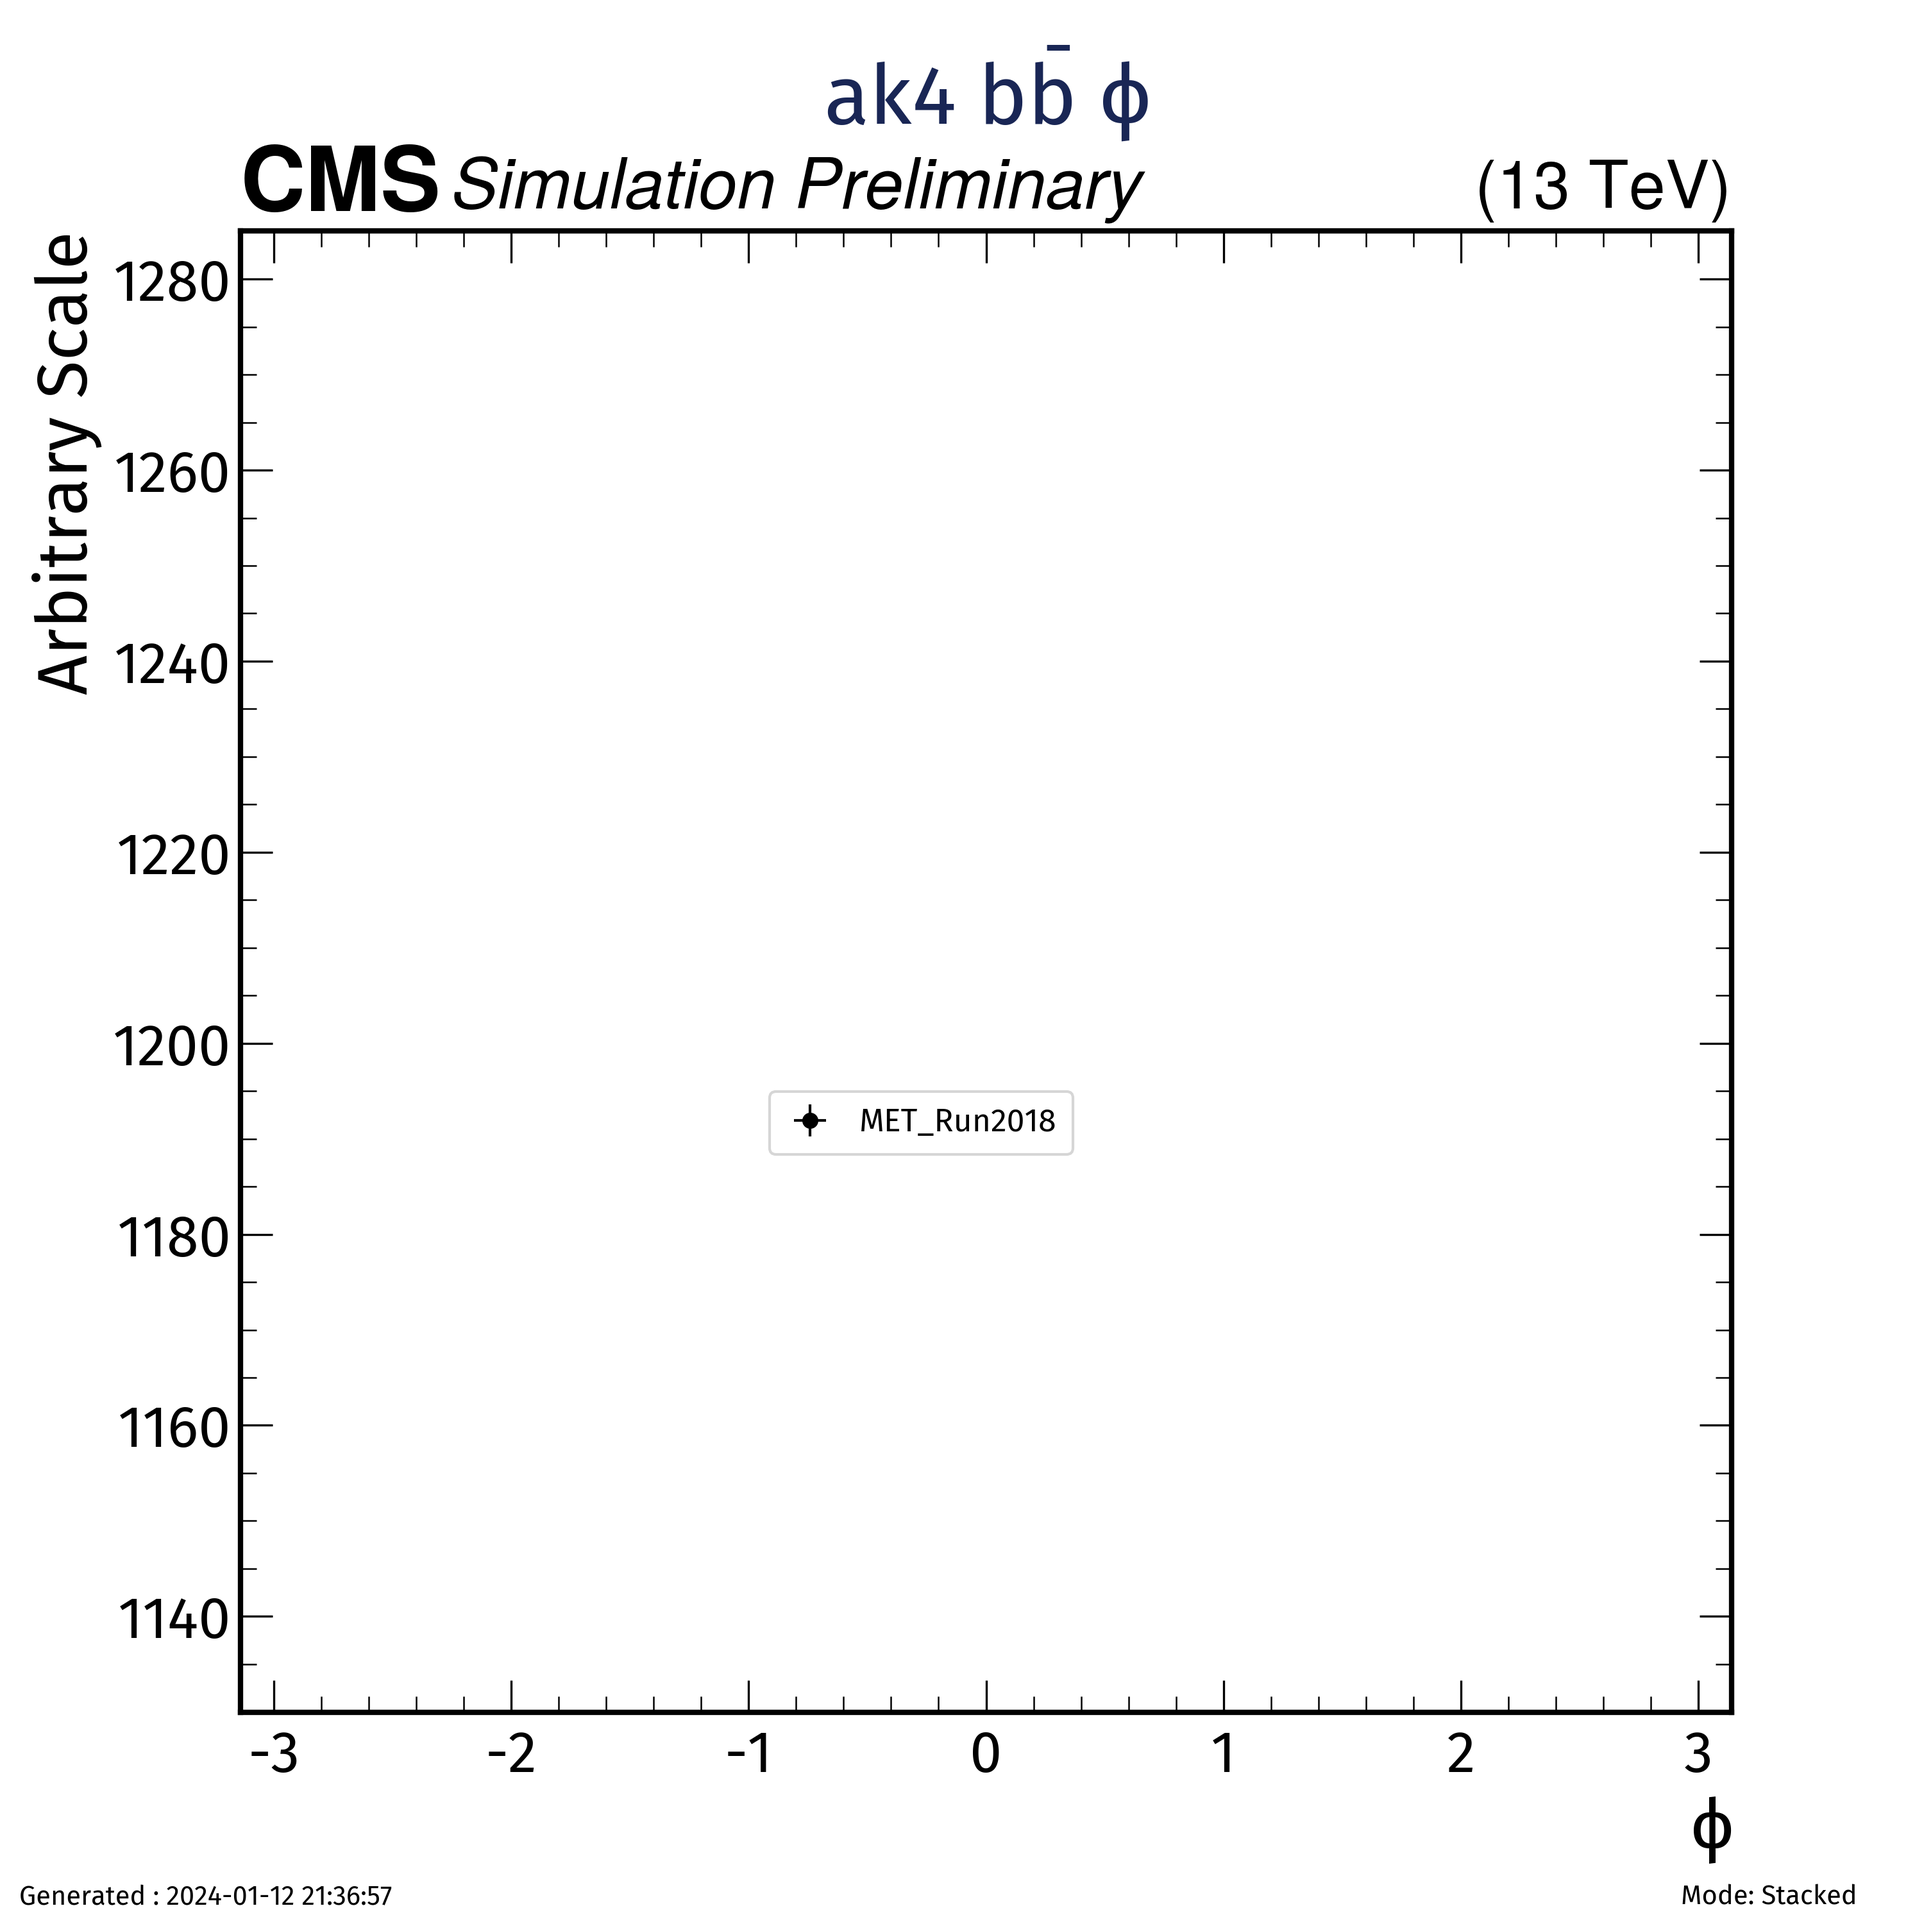
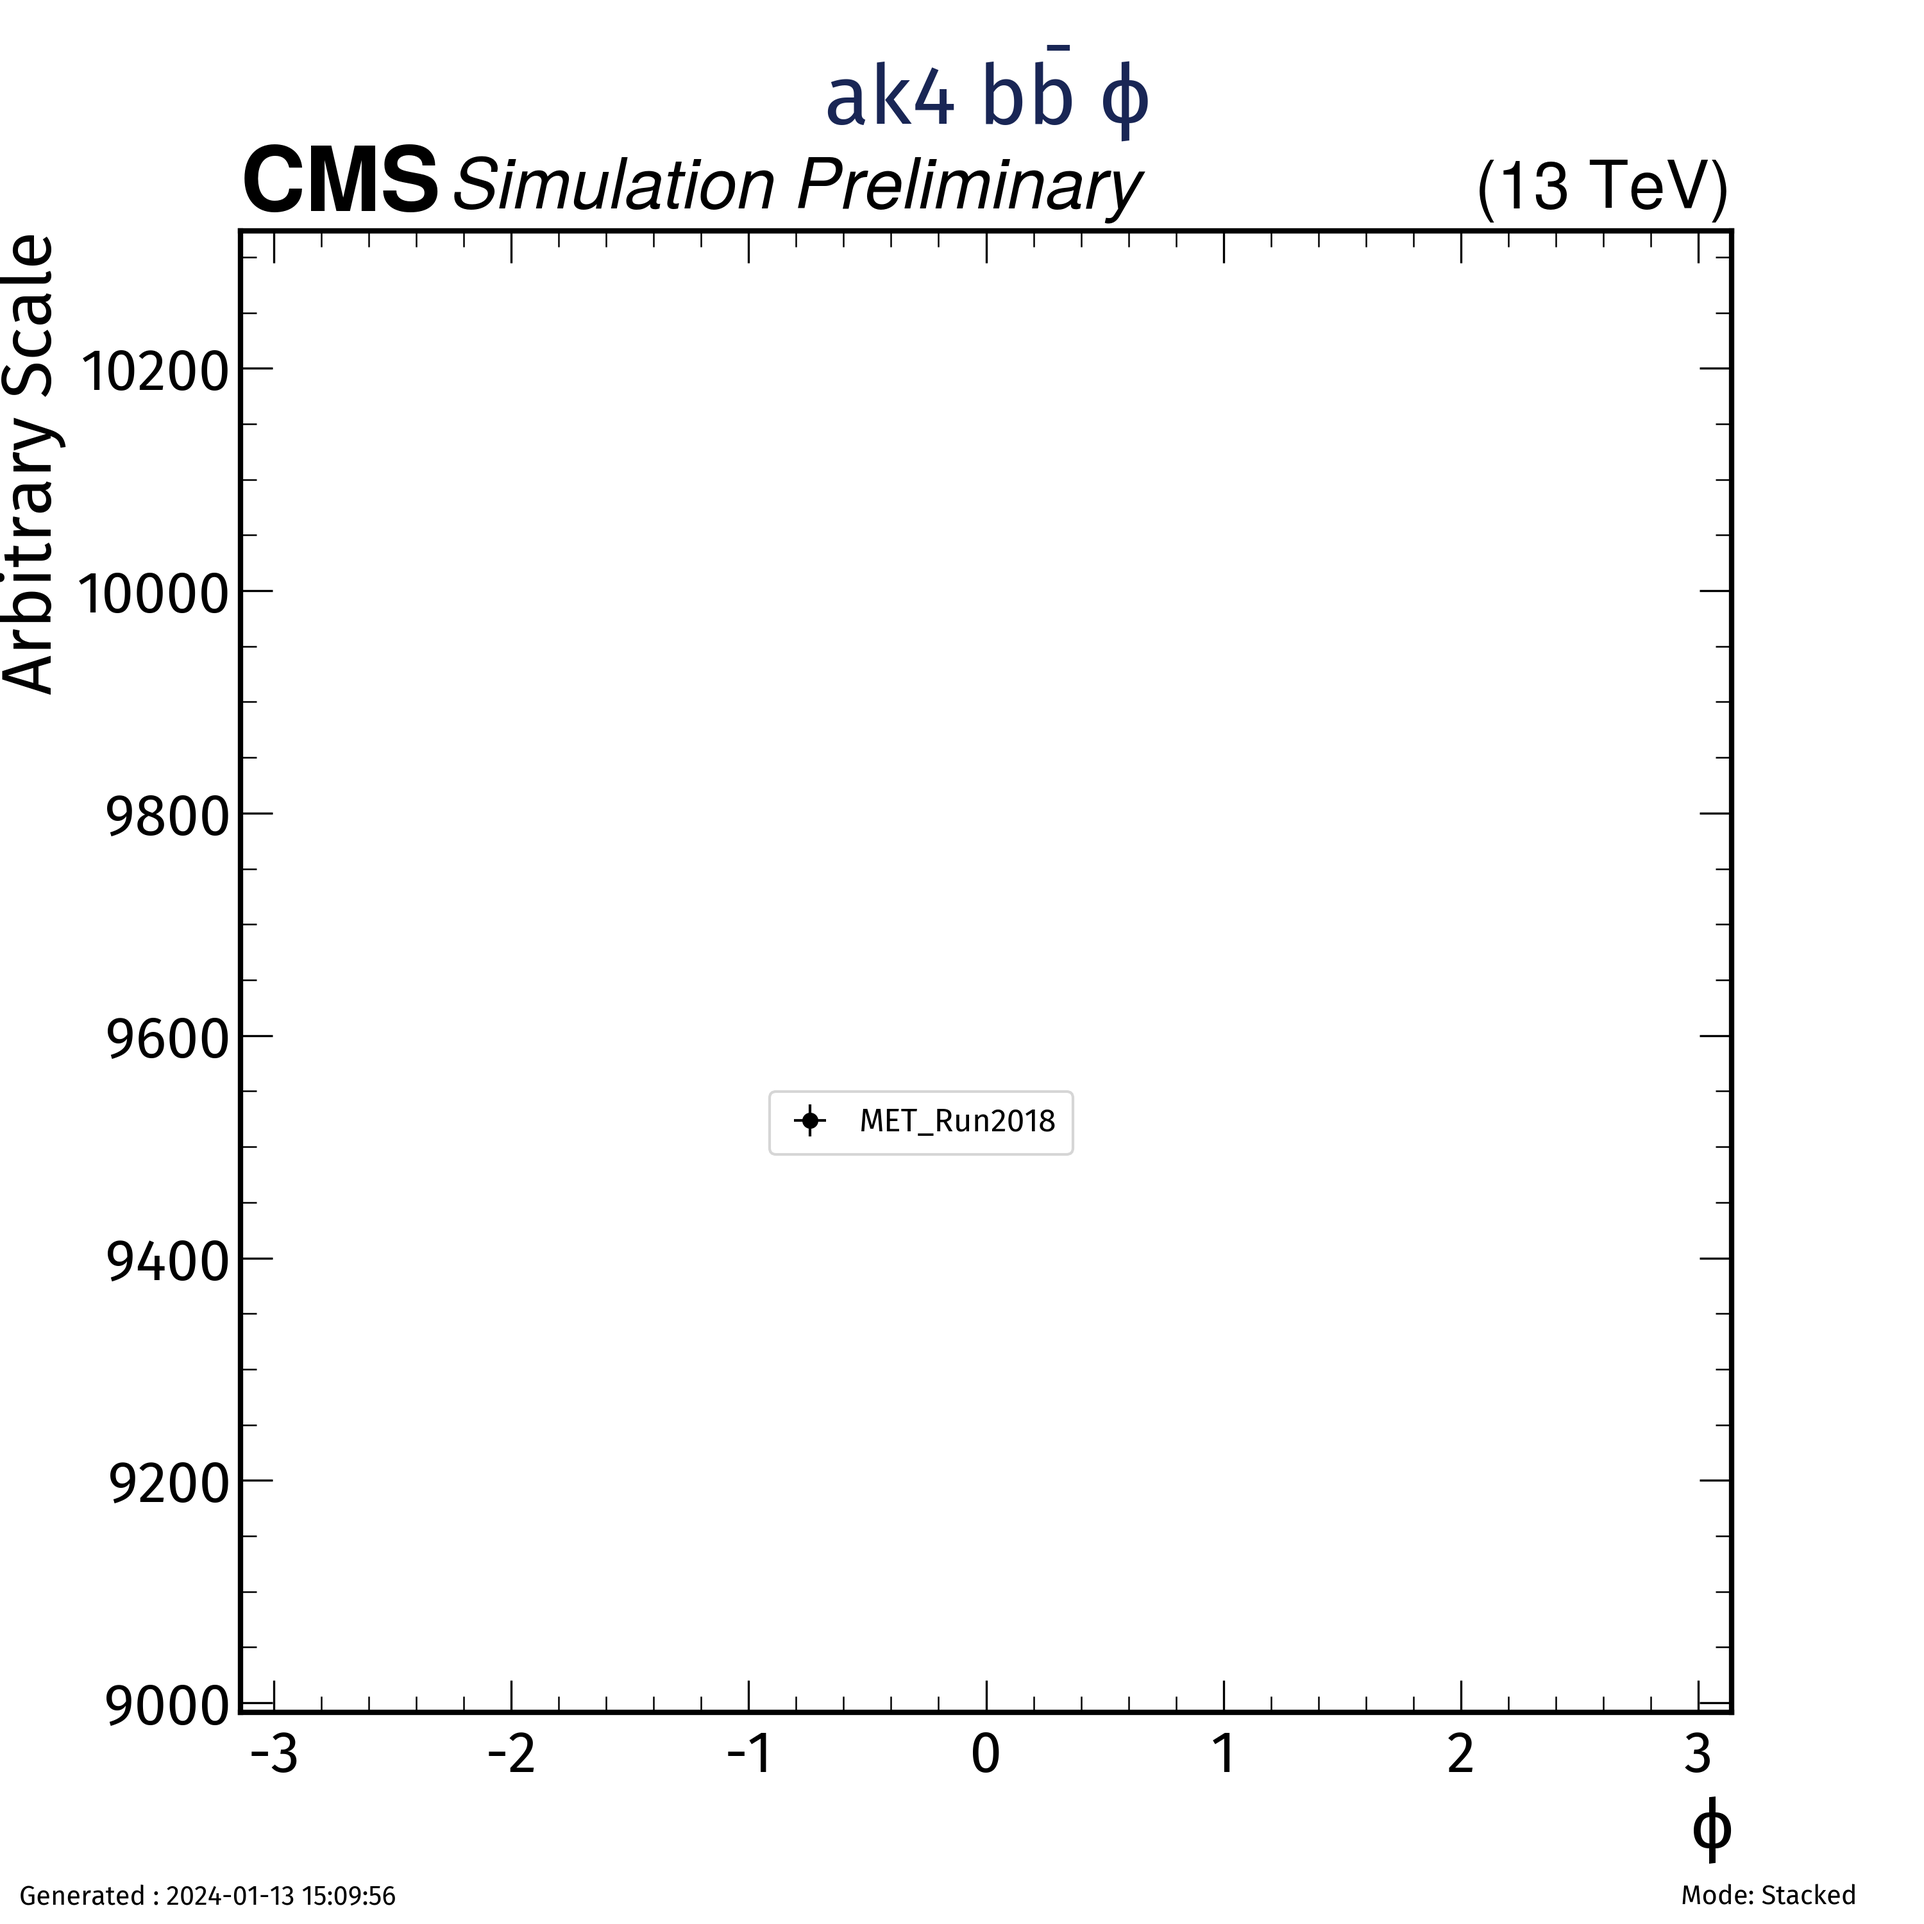
Automated Commit

diff --git a/control/plotter_Top_mu.py b/control/plotter_Top_mu.py
@@ -543,7 +543,7 @@ def plotcutflow(parent):
         print(plotname , f" created at {os.getcwd()}")
 
 def accum(key):
-    os.chdir("./coffea_files/ver3/")
+    os.chdir("./coffea_files/ver4/")
     list_files = os.listdir()
     valid_list = []
     for file in list_files :
@@ -578,7 +578,7 @@ match inputs.fulldataset :
         
         
     case 0 :
-        MET_Run2018 = util.load("coffea_files/ver3/CR_Resolved_Top_MET_Run2018.coffea")
+        MET_Run2018 = util.load("coffea_files/ver4/CR_Resolved_Top_MET_Run2018.coffea")
         # ZJets_NuNu = util.load("coffea_files/SR_Resolved_Backgrounds_ZJets_NuNu.coffea")
         # TTToSemiLeptonic = util.load("coffea_files/SR_Resolved_Backgrounds_TTToSemiLeptonic.coffea")
         # WJets_LNu = util.load("coffea_files/SR_Resolved_Backgrounds_WJets_LNu.coffea")

diff --git a/control/processor_Top_mu.py b/control/processor_Top_mu.py
@@ -240,10 +240,11 @@ class Top_mu(processor.ProcessorABC):
         #There is at least one muon(tight) in each event at this point
         events.Recoil = events.MET.pt + ak.flatten(single_muons.pt)
         if self.category == "boosted" :
-            events = events[events.Recoil > 250.0 ]
+            recoil = 250.0
         elif self.category == "resolved" :
-            events = events[events.Recoil > 200.0 ]
-        cutflow["Recoil"] = len(events)
+            recoil = 200.0
+        events = events[events.Recoil > recoil ]
+        cutflow[f"Recoil > {recoil}"] = len(events)
 
         #ak4Jets
         # #Apply general pt and eta cut to jets
